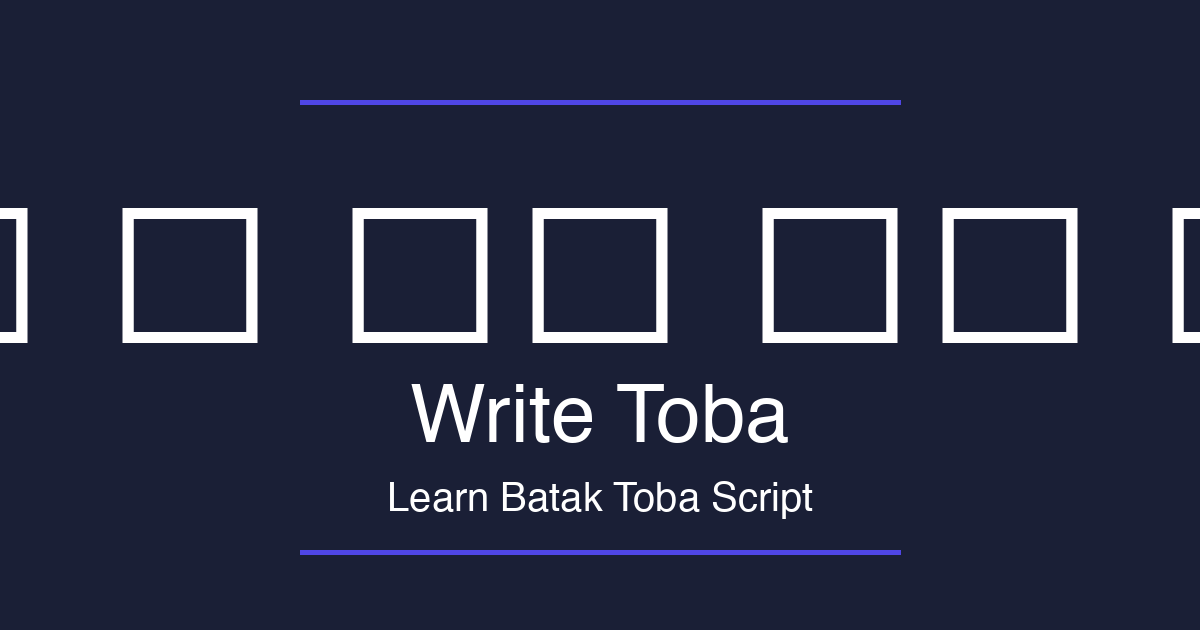
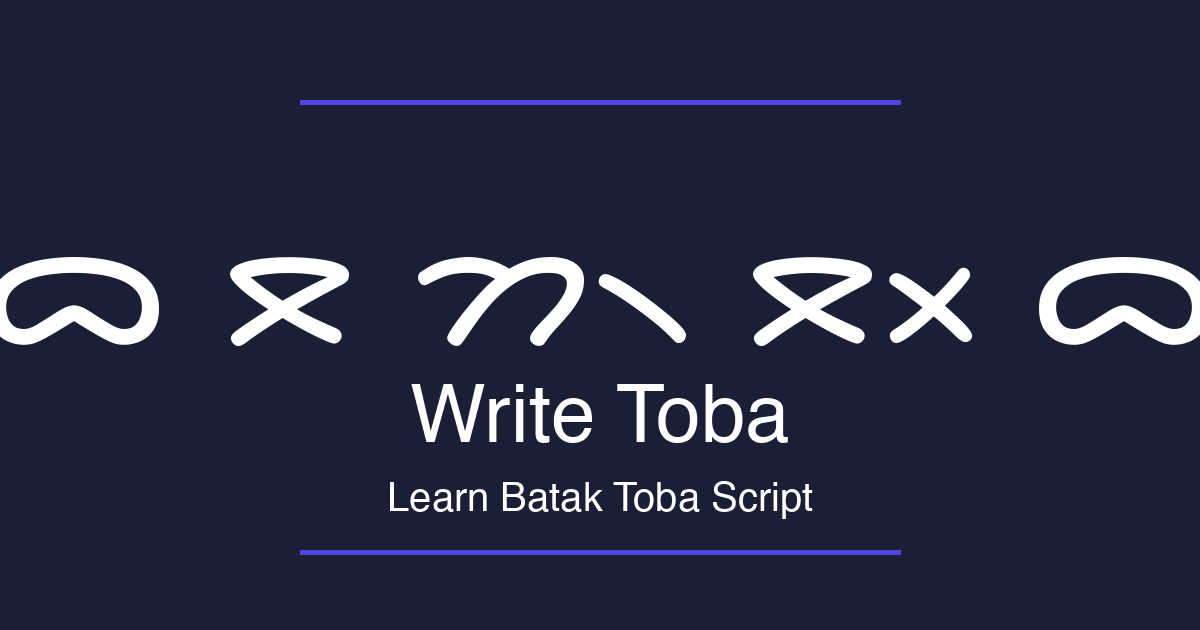
Add fb:app_id meta tag and regenerate og-image with Noto Sans Batak font

Changed region(s): [[0.0, 0.3317, 0.5858, 0.5429], [0.6167, 0.3317, 1.0, 0.5429]]

diff --git a/index.html b/index.html
@@ -18,6 +18,7 @@
     <title>Write Toba - Learn Batak Toba Script</title>
     
     <!-- Open Graph / Facebook -->
+    <meta property="fb:app_id" content="YOUR_FACEBOOK_APP_ID">
     <meta property="og:type" content="website">
     <meta property="og:url" content="https://writetoba.siboro.org/">
     <meta property="og:title" content="Write Toba - Write Batak Toba Script">

diff --git a/generate_og_image.py b/generate_og_image.py
@@ -32,15 +32,33 @@ def create_og_image():
         'tagline': 40
     }
     
-    try:
-        # Try to use system fonts that might support Batak script
-        # macOS often has good Unicode support in system fonts
-        batak_font = ImageFont.truetype("/System/Library/Fonts/Supplemental/Arial Unicode.ttf", font_sizes['batak'])
-    except:
+    # Try to load Noto Sans Batak font
+    font_paths = [
+        "NotoSansBatak-Regular.ttf",  # Current directory
+        "/System/Library/Fonts/Supplemental/NotoSansBatak-Regular.ttf",
+        "/Library/Fonts/NotoSansBatak-Regular.ttf",
+        "~/Library/Fonts/NotoSansBatak-Regular.ttf",
+    ]
+    
+    batak_font = None
+    for font_path in font_paths:
         try:
-            batak_font = ImageFont.truetype("/Library/Fonts/Arial Unicode.ttf", font_sizes['batak'])
+            batak_font = ImageFont.truetype(font_path, font_sizes['batak'])
+            print(f"Using font: {font_path}")
+            break
         except:
-            # Fallback to default
+            continue
+    
+    if batak_font is None:
+        print("Warning: Noto Sans Batak font not found. Downloading...", file=sys.stderr)
+        import urllib.request
+        font_url = "https://github.com/notofonts/batak/raw/main/fonts/NotoSansBatak/full/ttf/NotoSansBatak-Regular.ttf"
+        try:
+            urllib.request.urlretrieve(font_url, "NotoSansBatak-Regular.ttf")
+            batak_font = ImageFont.truetype("NotoSansBatak-Regular.ttf", font_sizes['batak'])
+            print("Successfully downloaded and loaded Noto Sans Batak font.")
+        except Exception as e:
+            print(f"Failed to download font: {e}", file=sys.stderr)
             batak_font = ImageFont.load_default()
             print("Warning: Using default font. Batak characters may not display correctly.", file=sys.stderr)
     
